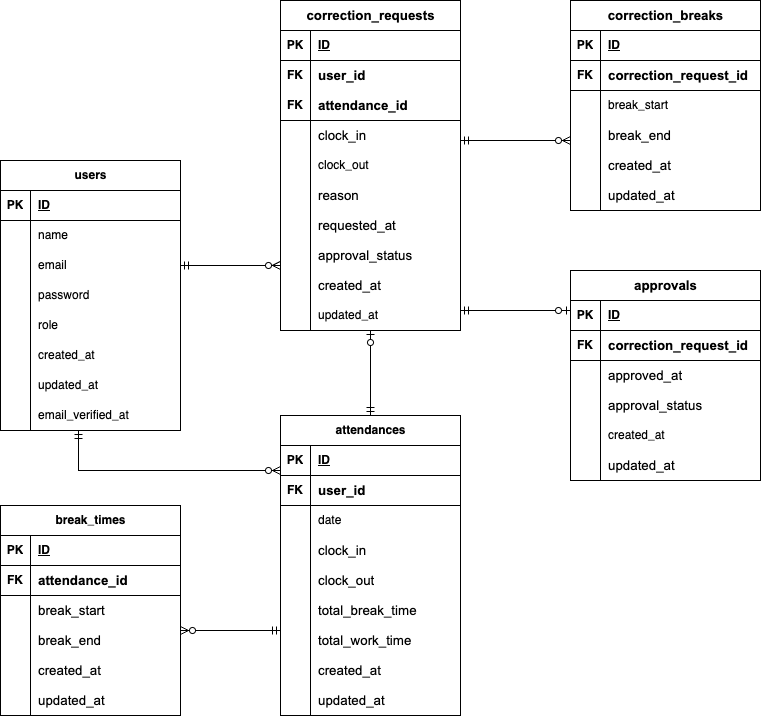
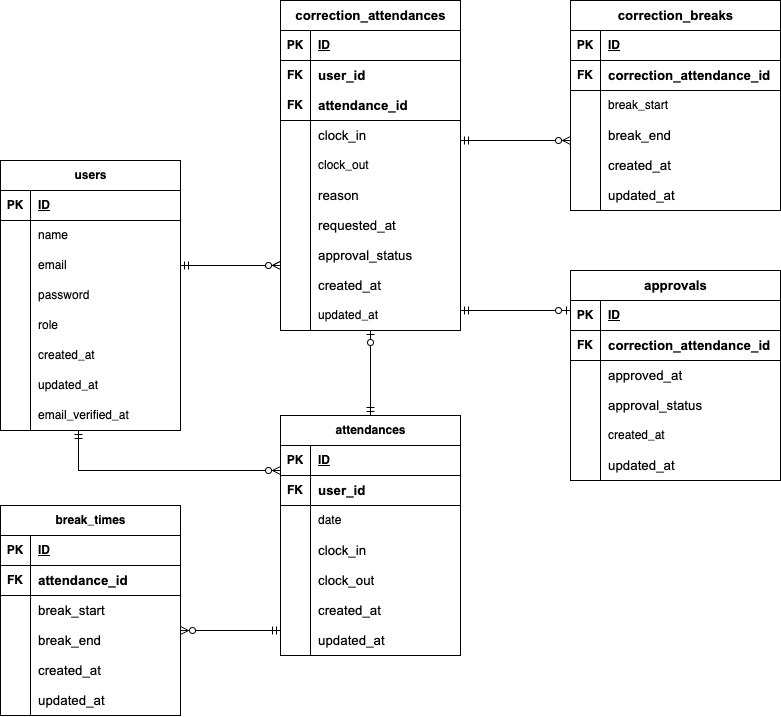
テーブル名の変更とトータルカラムの削除

diff --git a/src/database/migrations/2025_05_12_080119_create_approvals_table.php b/src/database/migrations/2025_05_12_080119_create_approvals_table.php
@@ -15,7 +15,7 @@ class CreateApprovalsTable extends Migration
     {
         Schema::create('approvals', function (Blueprint $table) {
             $table->id();
-            $table->foreignId('correction_request_id')->constrained()->cascadeOnDelete();
+            $table->foreignId('correction_attendance_id')->constrained()->cascadeOnDelete();
             $table->date('approved_at');
             $table->string('approval_status')->default('approved');
             $table->timestamps();

diff --git a/src/database/migrations/2025_05_12_075719_create_correction_breaks_table.php b/src/database/migrations/2025_05_12_075719_create_correction_breaks_table.php
@@ -15,7 +15,7 @@ class CreateCorrectionBreaksTable extends Migration
     {
         Schema::create('correction_breaks', function (Blueprint $table) {
             $table->id();
-            $table->foreignId('correction_request_id')->constrained()->cascadeOnDelete();
+            $table->foreignId('correction_attendance_id')->constrained()->cascadeOnDelete();
             $table->time('break_start');
             $table->time('break_end');
             $table->timestamps();

diff --git a/src/database/migrations/2025_05_12_075152_create_attendances_table.php b/src/database/migrations/2025_05_12_075152_create_attendances_table.php
@@ -18,8 +18,6 @@ class CreateAttendancesTable extends Migration
             $table->foreignId('user_id')->constrained()->cascadeOnDelete();
             $table->time('clock_in')->nullable();
             $table->time('clock_out')->nullable();
-            $table->integer('total_break_time')->nullable();
-            $table->integer('total_work_time')->nullable();
             $table->timestamps();
         });
     }
